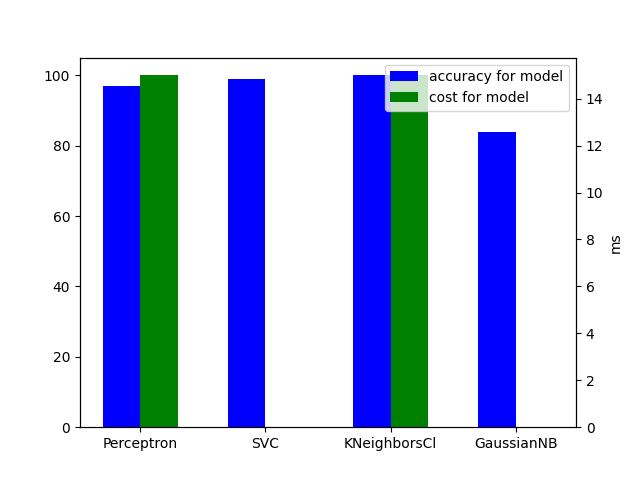
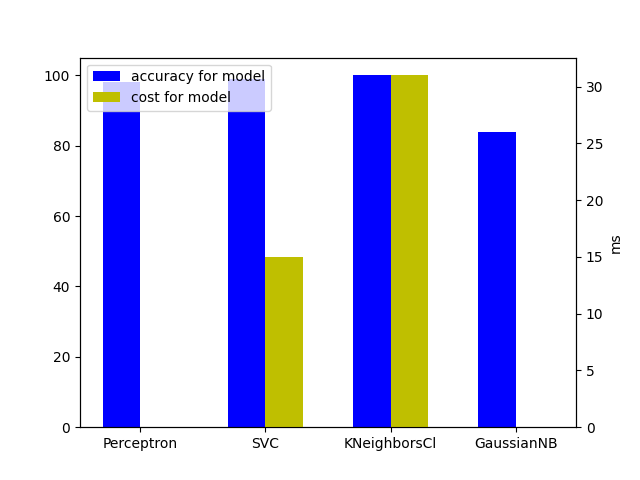
correzioni

diff --git a/banknotes0.py b/banknotes0.py
@@ -208,7 +208,7 @@ w=0.3
 plt.xticks(x_pos + w /2, nomi_graf)
 acc = ax1.bar(x_pos, graf_res[2], width=w, color='b', align='center')
 ax2 = ax1.twinx()
-cost = ax2.bar(x_pos + w, graf_res[3], width=w, color='g', align='center')
+cost = ax2.bar(x_pos + w, graf_res[3], width=w, color='y', align='center')
 plt.ylabel('ms')
 plt.legend([acc, cost],['accuracy for model', 'cost for model'])
 
